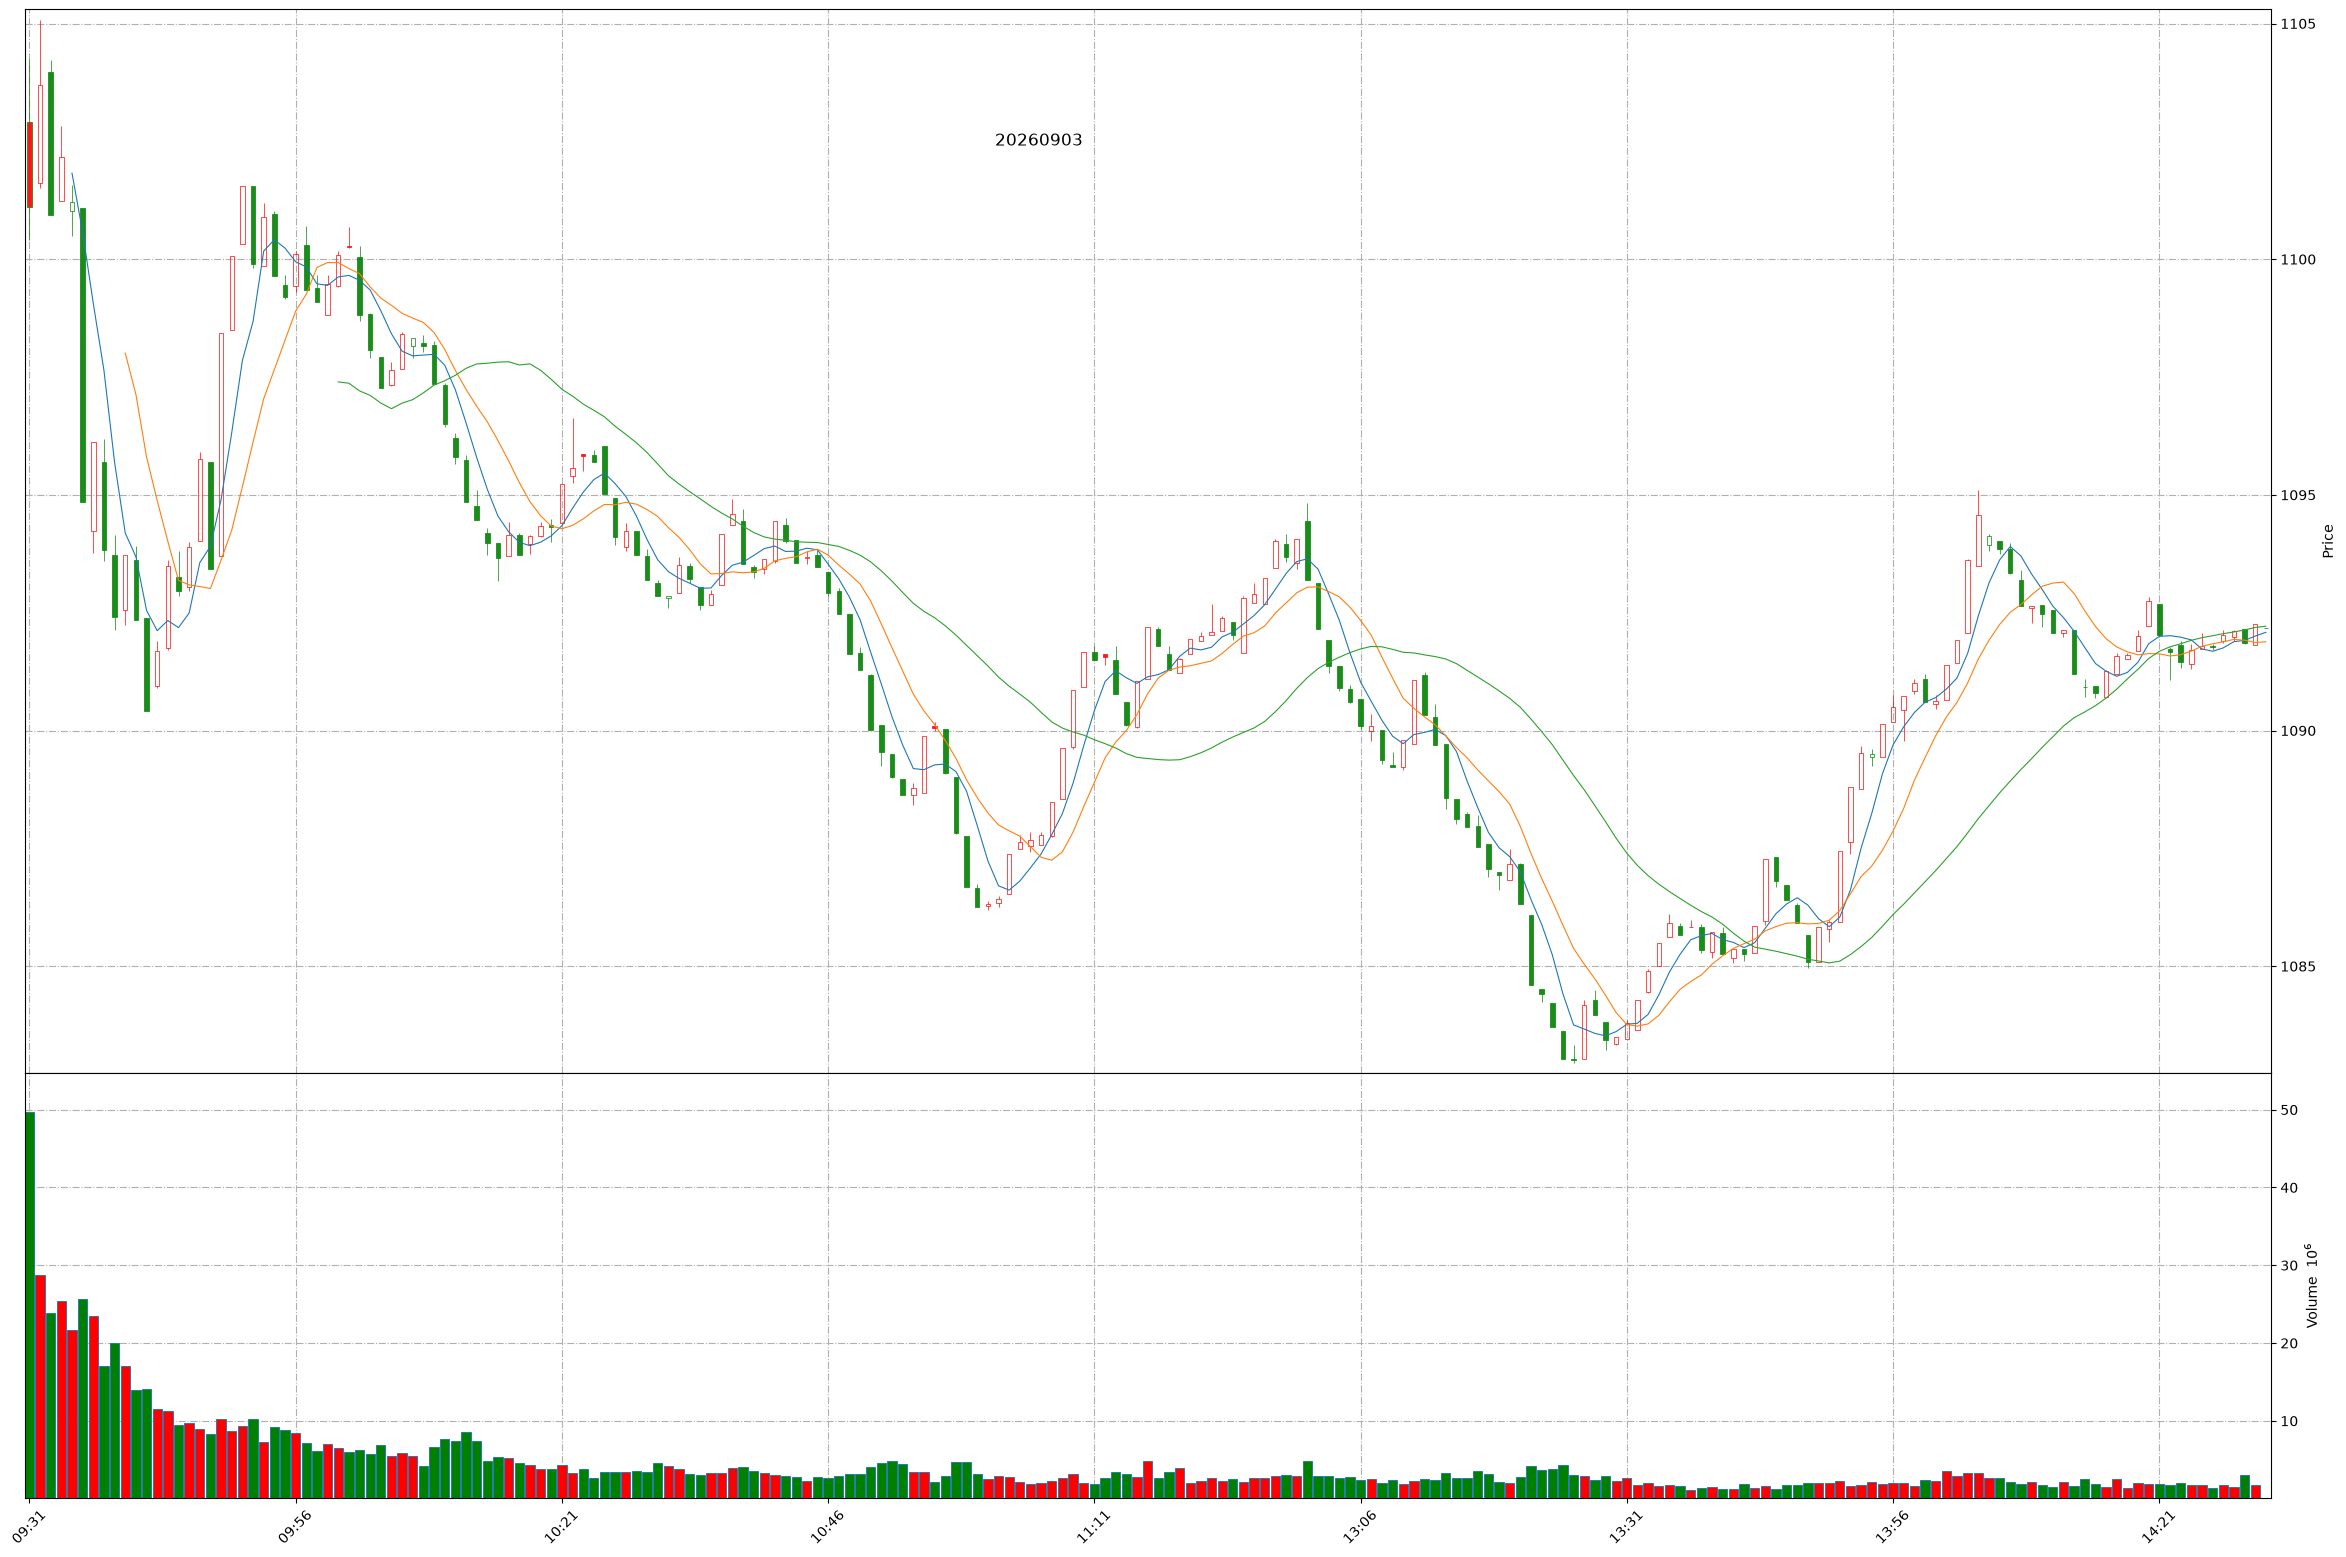
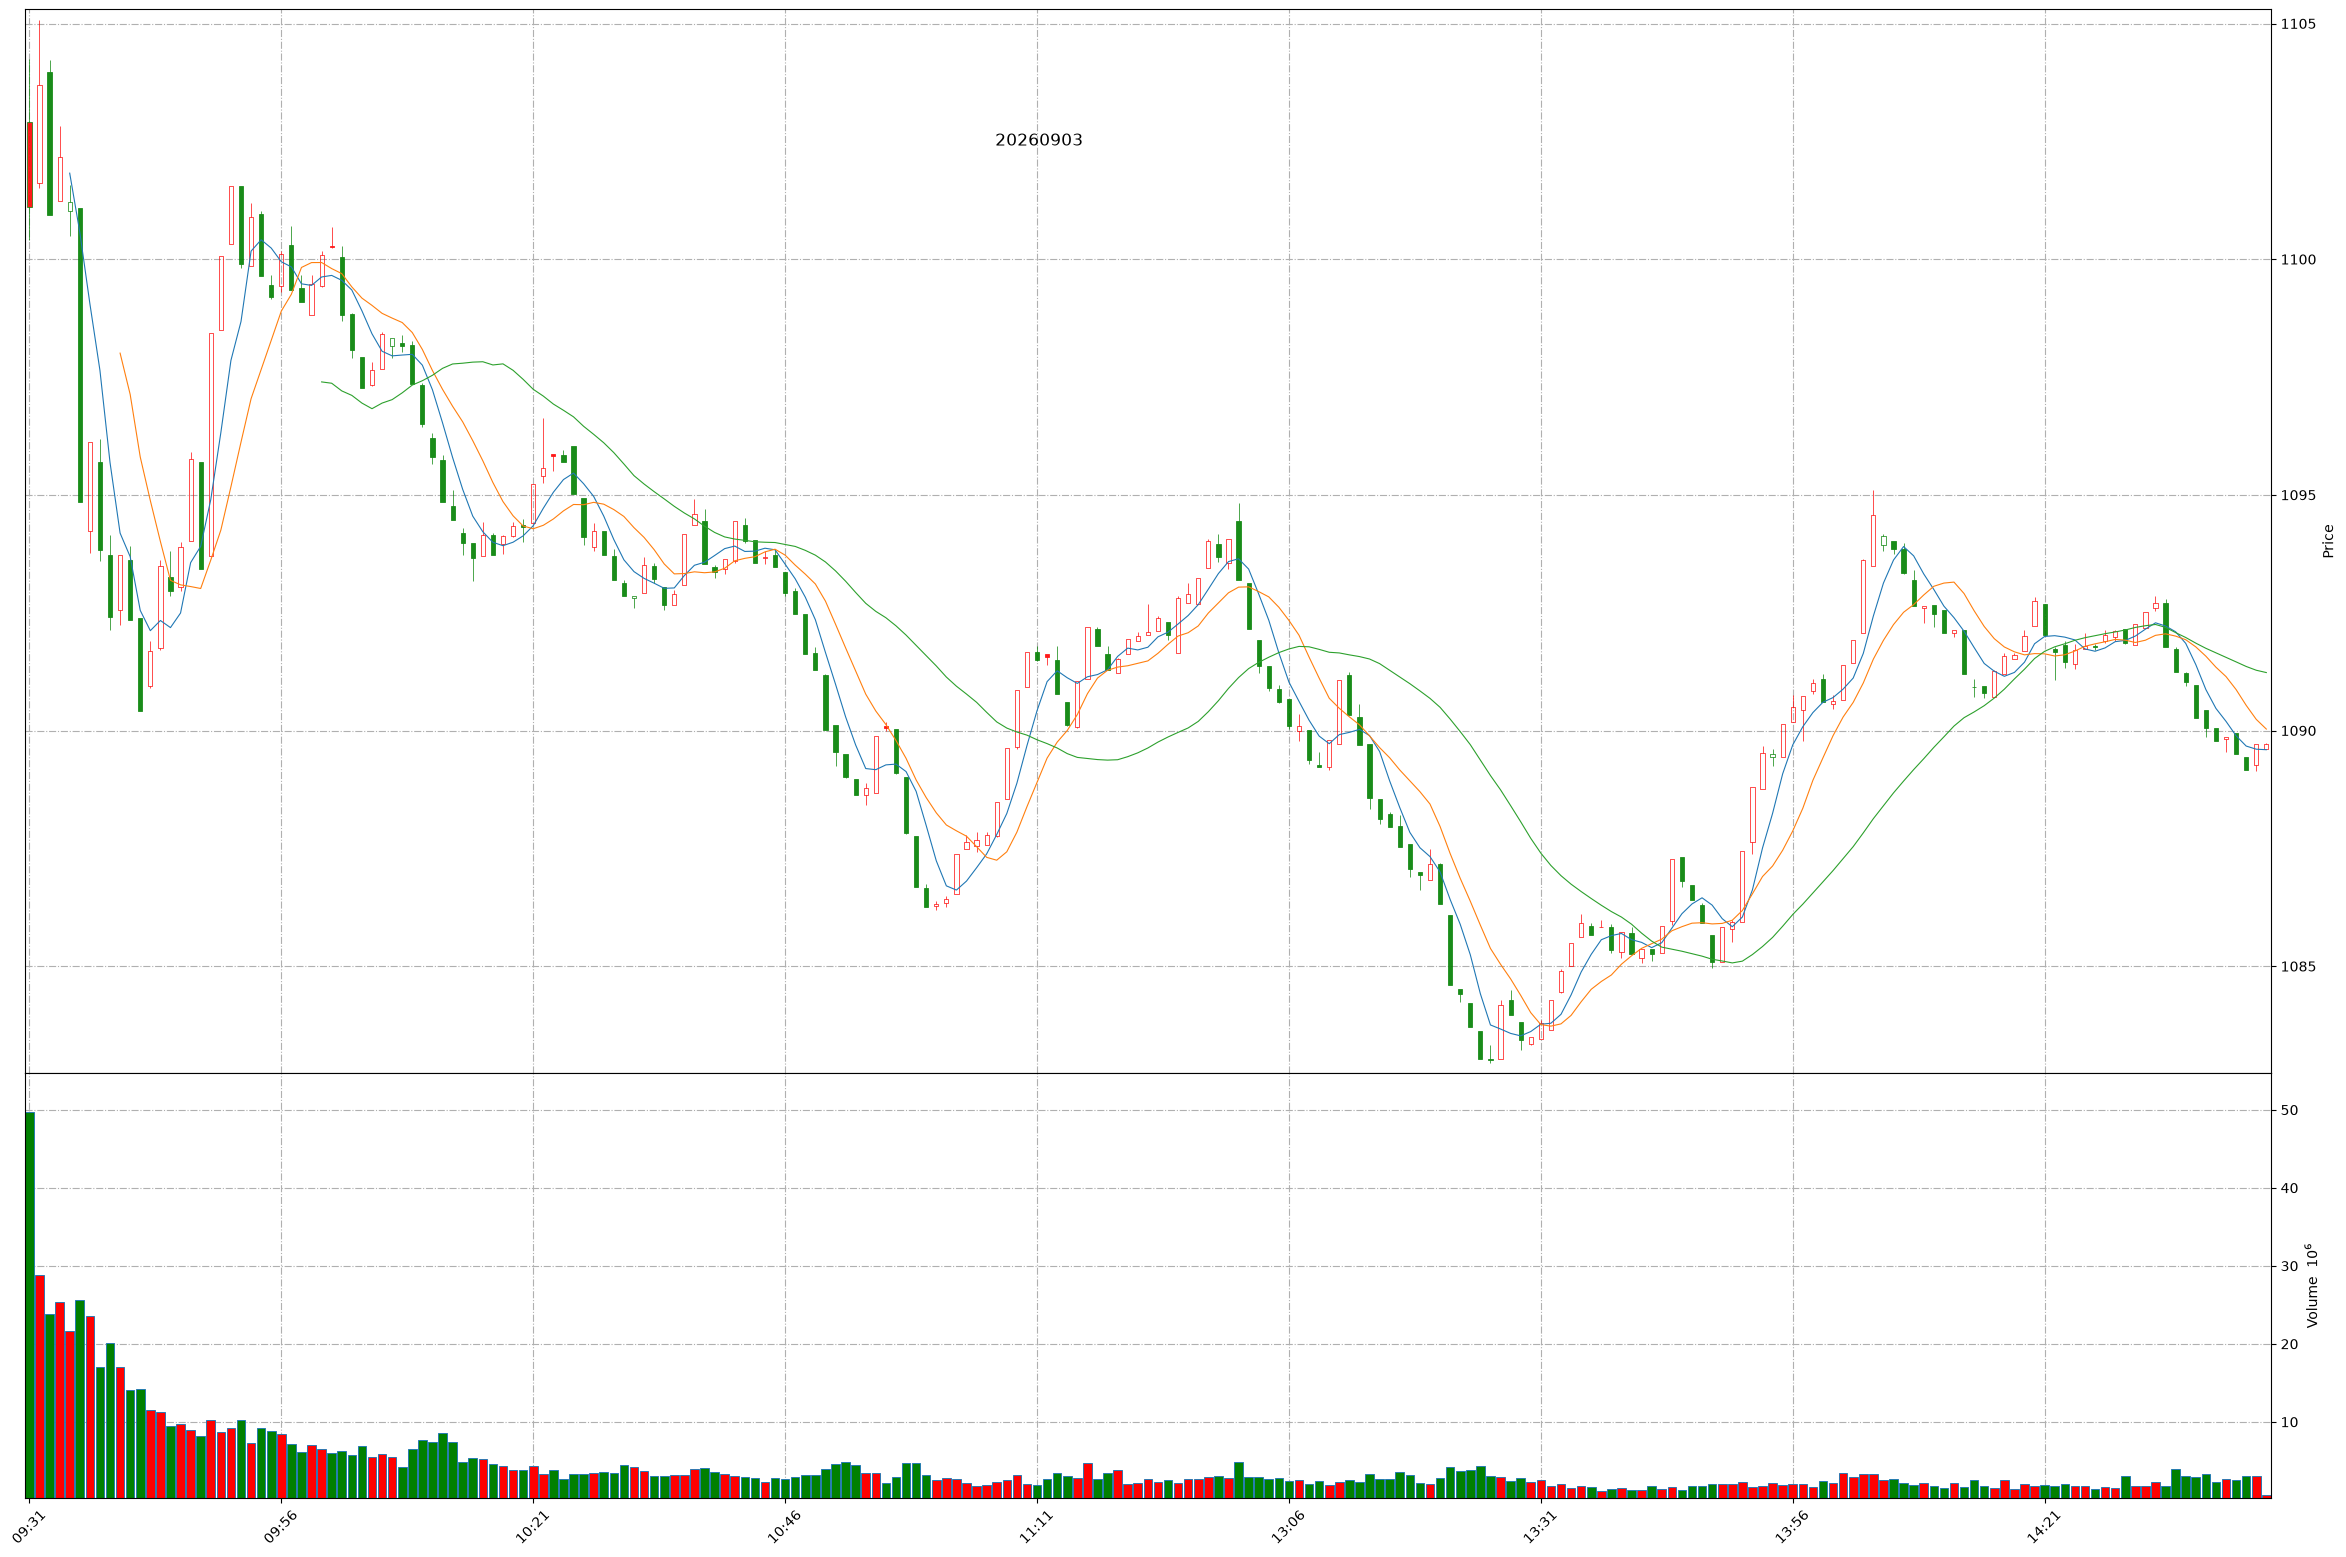
Github action update at 2026-09-03 14:42:24.

diff --git a/README.md b/README.md
@@ -1,11 +1,11 @@
 
 # Daily-A-share-market-quotes 每日 A 股指数（5min 更新）- 20260903
 
-### 上证指数 20260903 14:30
+### 上证指数 20260903 14:42
 ![](./fig/2026/9/20260903-sh000001.png)
 
-### 深证成指 20260903 14:30
+### 深证成指 20260903 14:42
 ![](./fig/2026/9/20260903-sz399001.png)
 
-### 北证50 20260903 14:30
+### 北证50 20260903 14:42
 ![](./fig/2026/9/20260903-bj899050.png)
